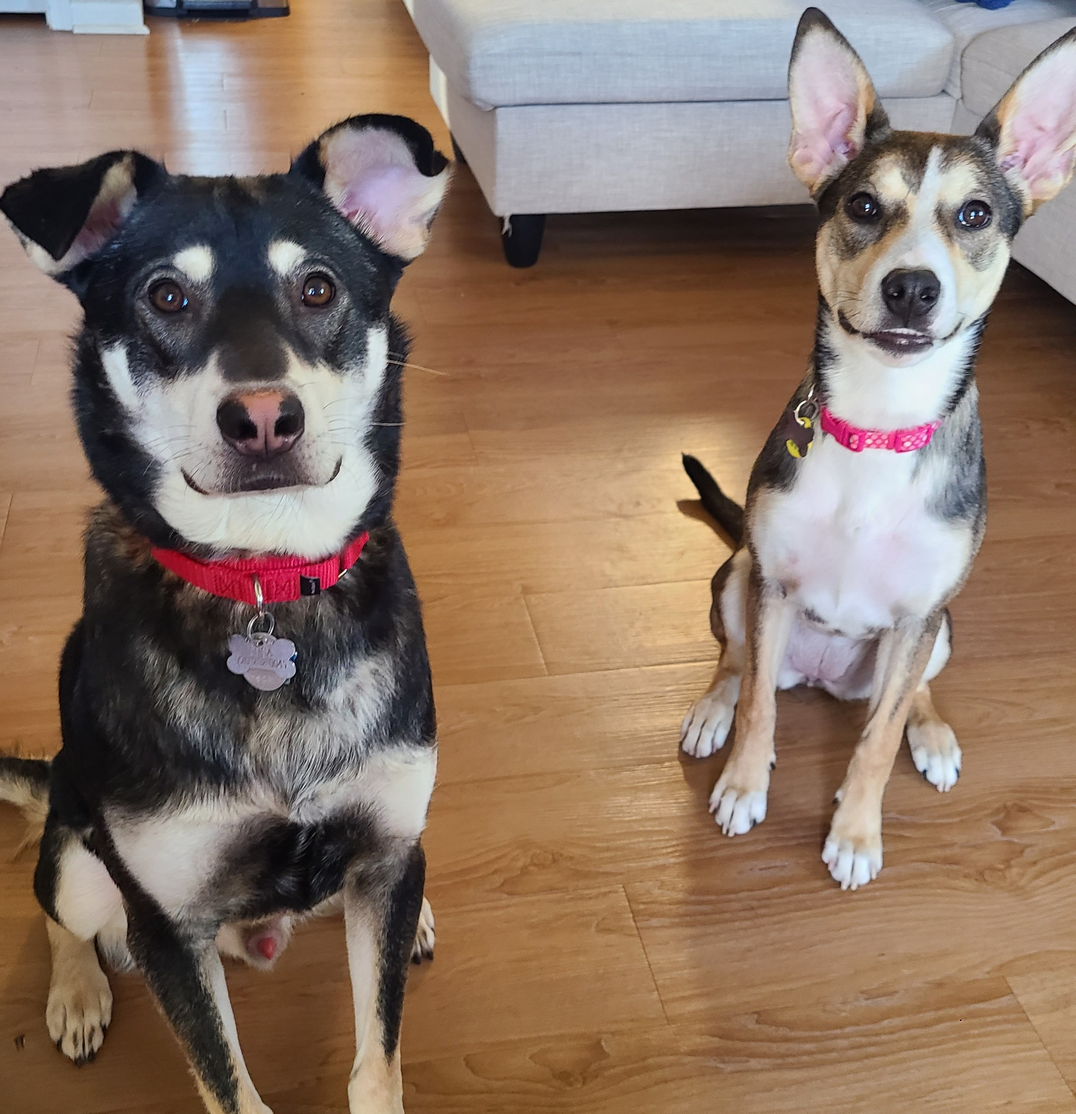
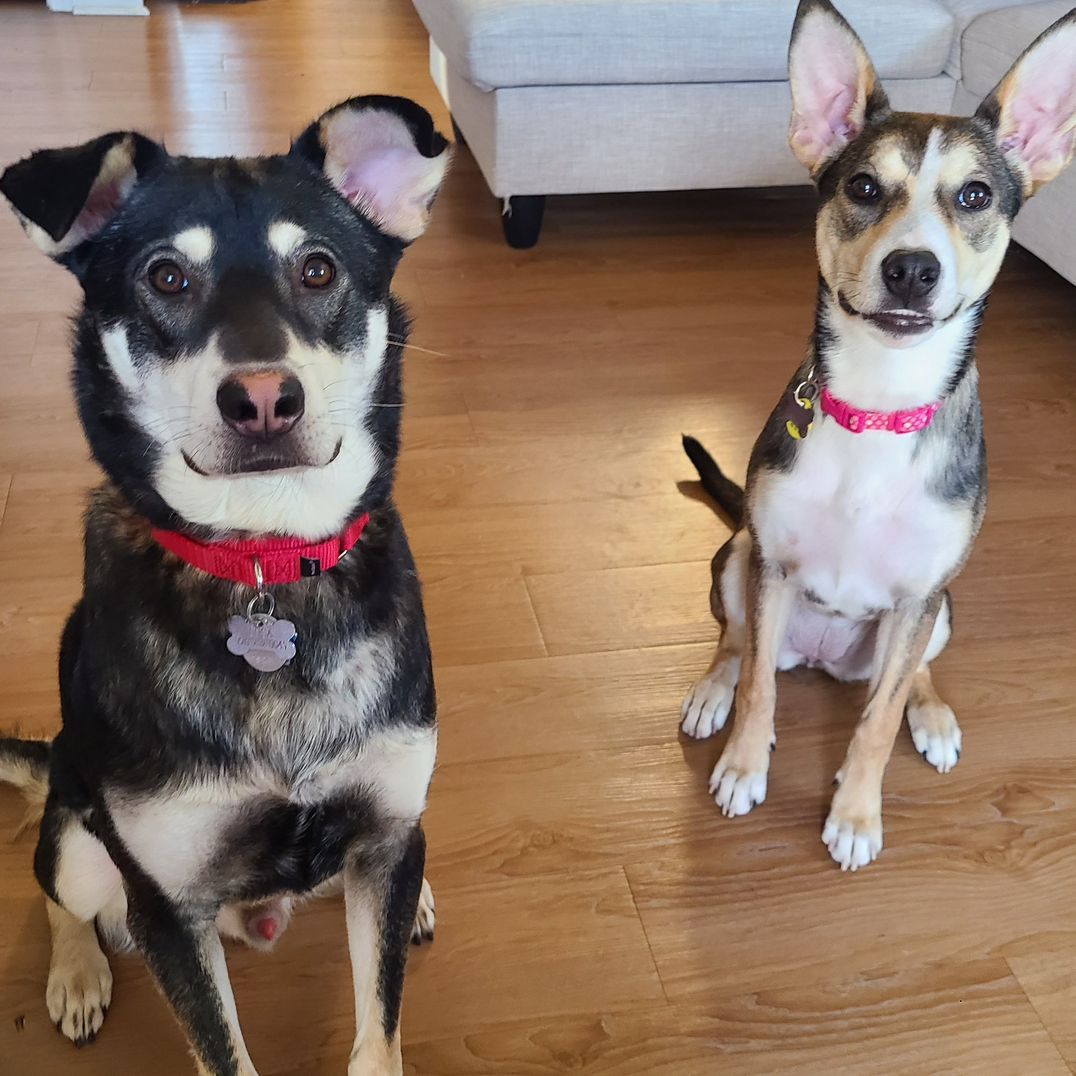
updated welcome page

diff --git a/src/components/WelcomeImage.tsx b/src/components/WelcomeImage.tsx
@@ -1,11 +1,56 @@
 function WelcomeImage() {
   return (
     <>
-      <img
-        src="/20230225_130625.jpg"
-        className="img-fluid rounded scaled-image "
-        alt="My Image"
-      ></img>
+      <div id="myCarousel" className="carousel slide">
+        <div className="carousel-inner">
+          <div className="carousel-item active">
+            <img
+              src="/20230225_130625.jpg"
+              className="d-block w-100 rounded scaled-image"
+              alt="My Doggies"
+            ></img>
+          </div>
+          <div className="carousel-item">
+            <img
+              src="/estes park.jpg"
+              className="d-block w-100 rounded scaled-image"
+              alt="Hiking at Estes Park"
+            ></img>
+          </div>
+          <div className="carousel-item">
+            <img
+              src="/me with sweater.jpg"
+              className="d-block w-100 rounded scaled-image"
+              alt="Me in my knitted sweater"
+            ></img>
+          </div>
+        </div>
+
+        <button
+          className="carousel-control-prev"
+          data-bs-target="#myCarousel"
+          role="button"
+          data-bs-slide="prev"
+        >
+          <span
+            className="carousel-control-prev-icon"
+            aria-hidden="true"
+          ></span>
+          <span className="visually-hidden">Previous</span>
+        </button>
+        <button
+          className="carousel-control-next"
+          data-bs-target="#myCarousel"
+          role="button"
+          data-bs-slide="next"
+        >
+          <span
+            className="carousel-control-next-icon"
+            aria-hidden="true"
+          ></span>
+          <span className="visually-hidden">Next</span>
+        </button>
+      </div>
     </>
   );
 }

diff --git a/src/components/SocialIcons.tsx b/src/components/SocialIcons.tsx
@@ -16,7 +16,7 @@ function SocialIcons() {
         >
           <FontAwesomeIcon
             icon={faInstagram}
-            className="fa-instagram mx-3"
+            className="fa-instagram mx-3 scaled-image"
             size="2xl"
             style={{ color: "#332941" }}
           />
@@ -28,7 +28,7 @@ function SocialIcons() {
         >
           <FontAwesomeIcon
             icon={faLinkedin}
-            className="fa-linkedin mx-3"
+            className="fa-linkedin mx-3 scaled-image"
             size="2xl"
             style={{ color: "#332941" }}
           />
@@ -40,7 +40,7 @@ function SocialIcons() {
         >
           <FontAwesomeIcon
             icon={faGithub}
-            className="fa-github mx-3"
+            className="fa-github mx-3 scaled-image"
             size="2xl"
             style={{ color: "#332941" }}
           />

diff --git a/src/components/Hello.tsx b/src/components/Hello.tsx
@@ -1,9 +1,16 @@
+import SocialIcons from "./SocialIcons";
+
 function Hello() {
   return (
     <>
       <div className="container right-welcome-container">
-        <h1 className="display-4">Hi! I'm Cris Trinidad.</h1>
-        <h2 className="display-6">Aspiring Software Developer</h2>
+        <h4 className="display-4">Hi! I'm Cris Trinidad.</h4>
+        <h6 className="display-6">Aspiring Software Developer</h6>
+        <p className="lead">
+          Currently a QA Analyst at Unison Global. <br /> My hobbies include
+          knitting, cooking, and hiking.
+        </p>
+        <SocialIcons />
       </div>
     </>
   );

diff --git a/index.html b/index.html
@@ -2,7 +2,7 @@
 <html lang="en">
   <head>
     <meta charset="UTF-8" />
-    <link rel="icon" type="image/svg+xml" href="/vite.svg" />
+    <link rel="icon" type="image/svg+xml" href="/logo.png" />
     <meta name="viewport" content="width=device-width, initial-scale=1.0" />
     <title>Cris Trinidad</title>
   </head>

diff --git a/src/main.tsx b/src/main.tsx
@@ -2,6 +2,7 @@ import React from "react";
 import ReactDOM from "react-dom/client";
 import App from "./pages/App.tsx";
 import "bootstrap/dist/css/bootstrap.css";
+import "bootstrap/dist/js/bootstrap.min.js";
 import { BrowserRouter } from "react-router-dom";
 import "./index.css";
 
